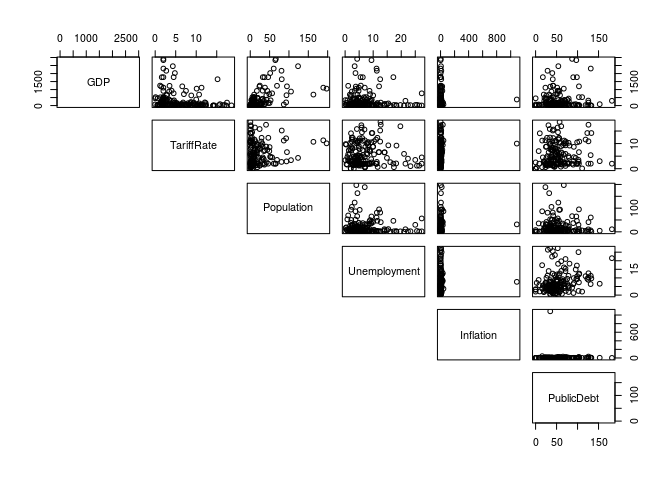
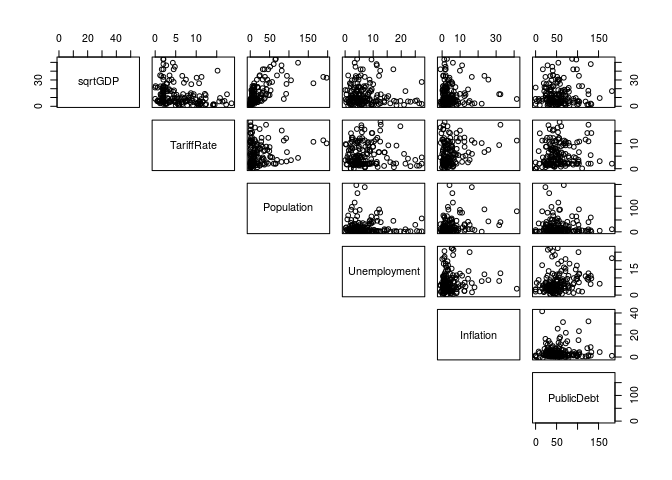
Described scatterplot matrix

diff --git a/01-proposal/proposal.md b/01-proposal/proposal.md
@@ -135,7 +135,7 @@ skim()
     ##  n obs: 173 
     ##  n variables: 1 
     ## 
-    ## ── Variable type:numeric ───────────────────────────────────────────────────────────────────────────────────
+    ## ── Variable type:numeric ───────────────────────────────────────────────────────────────────────────────
     ##  variable missing complete   n   mean      sd  p0  p25  p50   p75    p100
     ##       GDP       0      173 173 729.71 2486.04 0.6 28.3 88.9 439.6 23159.1
     ##      hist
@@ -172,7 +172,7 @@ skim()
     ##  n obs: 173 
     ##  n variables: 1 
     ## 
-    ## ── Variable type:numeric ───────────────────────────────────────────────────────────────────────────────────
+    ## ── Variable type:numeric ───────────────────────────────────────────────────────────────────────────────
     ##  variable missing complete   n   mean      sd  p0  p25  p50   p75    p100
     ##       GDP       0      173 173 729.71 2486.04 0.6 28.3 88.9 439.6 23159.1
     ##      hist
@@ -210,7 +210,7 @@ skim()
     ##  n obs: 173 
     ##  n variables: 1 
     ## 
-    ## ── Variable type:numeric ───────────────────────────────────────────────────────────────────────────────────
+    ## ── Variable type:numeric ───────────────────────────────────────────────────────────────────────────────
     ##  variable missing complete   n mean   sd    p0  p25  p50  p75  p100
     ##    logGDP       0      173 173 4.61 2.08 -0.51 3.34 4.49 6.09 10.05
     ##      hist
@@ -247,7 +247,7 @@ skim()
     ##  n obs: 173 
     ##  n variables: 1 
     ## 
-    ## ── Variable type:numeric ───────────────────────────────────────────────────────────────────────────────────
+    ## ── Variable type:numeric ───────────────────────────────────────────────────────────────────────────────
     ##   variable missing complete   n  mean    sd  p0 p25  p50  p75 p100
     ##  TaxBurden       0      173 173 22.19 10.25 1.6  14 20.7 30.2   47
     ##      hist
@@ -280,7 +280,7 @@ skim()
     ##  n obs: 173 
     ##  n variables: 1 
     ## 
-    ## ── Variable type:numeric ───────────────────────────────────────────────────────────────────────────────────
+    ## ── Variable type:numeric ───────────────────────────────────────────────────────────────────────────────
     ##     variable missing complete   n mean    sd   p0  p25  p50  p75 p100
     ##  GovSpending       0      173 173 32.2 10.67 10.6 23.6 31.6 39.8 64.2
     ##      hist
@@ -350,7 +350,7 @@ skim()
     ##  n obs: 173 
     ##  n variables: 1 
     ## 
-    ## ── Variable type:numeric ───────────────────────────────────────────────────────────────────────────────────
+    ## ── Variable type:numeric ───────────────────────────────────────────────────────────────────────────────
     ##    variable missing complete   n  mean     sd  p0 p25 p50  p75   p100
     ##  Population       0      173 173 42.16 149.89 0.1 2.9 9.5 31.4 1390.1
     ##      hist
@@ -383,7 +383,7 @@ skim()
     ##  n obs: 173 
     ##  n variables: 1 
     ## 
-    ## ── Variable type:numeric ───────────────────────────────────────────────────────────────────────────────────
+    ## ── Variable type:numeric ───────────────────────────────────────────────────────────────────────────────
     ##      variable missing complete   n mean   sd  p0 p25 p50 p75 p100     hist
     ##  Unemployment       0      173 173 7.27 5.67 0.1 3.7 5.5 9.3 27.3 ▆▇▅▂▁▁▁▁
 
@@ -427,7 +427,7 @@ skim()
     ##  n obs: 173 
     ##  n variables: 1 
     ## 
-    ## ── Variable type:numeric ───────────────────────────────────────────────────────────────────────────────────
+    ## ── Variable type:numeric ───────────────────────────────────────────────────────────────────────────────
     ##   variable missing complete   n  mean    sd   p0 p25 p50 p75   p100
     ##  Inflation       0      173 173 10.87 82.56 -0.9 1.3 2.8 5.5 1087.5
     ##      hist
@@ -515,7 +515,7 @@ economic_data %>%
     ##  n obs: 173 
     ##  n variables: 1 
     ## 
-    ## ── Variable type:numeric ───────────────────────────────────────────────────────────────────────────────────
+    ## ── Variable type:numeric ───────────────────────────────────────────────────────────────────────────────
     ##    variable missing complete   n mean  sd p0 p25 p50 p75 p100     hist
     ##  TariffRate       0      173 173 5.61 4.4  0   2 4.2 8.7 18.6 ▇▅▃▃▃▁▁▁
 
@@ -545,7 +545,7 @@ economic_data %>%
     ##  n obs: 173 
     ##  n variables: 1 
     ## 
-    ## ── Variable type:numeric ───────────────────────────────────────────────────────────────────────────────────
+    ## ── Variable type:numeric ───────────────────────────────────────────────────────────────────────────────
     ##       variable missing complete   n  mean    sd p0 p25 p50 p75 p100
     ##  IncomeTaxRate       0      173 173 28.78 13.32  0  20  30  35   60
     ##      hist
@@ -579,7 +579,7 @@ skim()
     ##  n obs: 173 
     ##  n variables: 1 
     ## 
-    ## ── Variable type:numeric ───────────────────────────────────────────────────────────────────────────────────
+    ## ── Variable type:numeric ───────────────────────────────────────────────────────────────────────────────
     ##          variable missing complete   n  mean   sd p0 p25 p50 p75 p100
     ##  CorporateTaxRate       0      173 173 23.95 8.89  0  20  25  30   50
     ##      hist
@@ -612,7 +612,7 @@ skim()
     ##  n obs: 173 
     ##  n variables: 1 
     ## 
-    ## ── Variable type:numeric ───────────────────────────────────────────────────────────────────────────────────
+    ## ── Variable type:numeric ───────────────────────────────────────────────────────────────────────────────
     ##    variable missing complete   n  mean   sd p0  p25  p50  p75  p100
     ##  PublicDebt       0      173 173 56.46 33.8  0 35.2 49.4 69.9 236.4
     ##      hist
@@ -631,13 +631,13 @@ that skew the visualization, but this will be corrected for later in our
 analysis.
 
 ``` r
-pairs(GDP ~ TariffRate + Population + Unemployment + Inflation + PublicDebt, data=economic_data, lower.panel = NULL)
+pairs(logGDP ~ TariffRate + Population + Unemployment + Inflation + PublicDebt, data=economic_data, lower.panel = NULL)
 ```
 
 ![](proposal_files/figure-gfm/scatterplot%20matrix%20GDP%20growth-1.png)<!-- -->
 
 ``` r
-pairs(GDP ~ GovSpending + IncomeTaxRate + CorporateTaxRate + TaxBurden, data=economic_data, lower.panel = NULL)
+pairs(logGDP ~ GovSpending + IncomeTaxRate + CorporateTaxRate + TaxBurden, data=economic_data, lower.panel = NULL)
 ```
 
 ![](proposal_files/figure-gfm/scatterplot%20matrix%20GDP%20growth-2.png)<!-- -->
@@ -662,15 +662,18 @@ ggplot(mapping = aes(x = GovInterference, y = GDP)) +
 
 ``` r
 temp <- economic_data %>%
-  filter(GDP<3000)
+  filter(GDP<3000 & Inflation < 100)
 
-pairs(GDP ~ TariffRate + Population + Unemployment + Inflation + PublicDebt, data=temp, lower.panel = NULL)
+temp <- temp %>%
+  mutate(sqrtGDP = (GDP)^(1/2))
+
+pairs(sqrtGDP ~ TariffRate + Population + Unemployment + Inflation + PublicDebt, data=temp, lower.panel = NULL)
 ```
 
 ![](proposal_files/figure-gfm/scatterplot%20matrix%20GDP%20growth-5.png)<!-- -->
 
 ``` r
-pairs(GDP ~ GovSpending + IncomeTaxRate + CorporateTaxRate + TaxBurden, data=temp, lower.panel = NULL)
+pairs(sqrtGDP ~ GovSpending + IncomeTaxRate + CorporateTaxRate + TaxBurden, data=temp, lower.panel = NULL)
 ```
 
 ![](proposal_files/figure-gfm/scatterplot%20matrix%20GDP%20growth-6.png)<!-- -->
@@ -693,7 +696,18 @@ ggplot(mapping = aes(x = GovInterference, y = GDP)) +
 
 ![](proposal_files/figure-gfm/scatterplot%20matrix%20GDP%20growth-8.png)<!-- -->
 
-Based on the scatterplots
+We then made a scatterplot of responser variable against all 10
+predictor variables; because there are more than 5 predictor variables,
+we break the matrix into two so that each scatterplot is not
+indistinguishable. Based on the the first two scatterplot matrix, we can
+see that because of some extreme values in GDP and some predictor
+variables, we cannot see clearly the relationship between the predictor
+and response variables. So, we imposed a threshold on GDP and Inflation
+to better help us visualize the relationship. According to the fifth and
+sixth scatterplot matrix with outliers dropped, we ccan see that there
+is approxiamtely a linear relationship between response variable and all
+predictor variables. However, we noticed some multicollinearity issues
+between predictor variables, like GovSpending and TaxBurden.
 
 ## Section 3. Regression Analysis Plan
 
